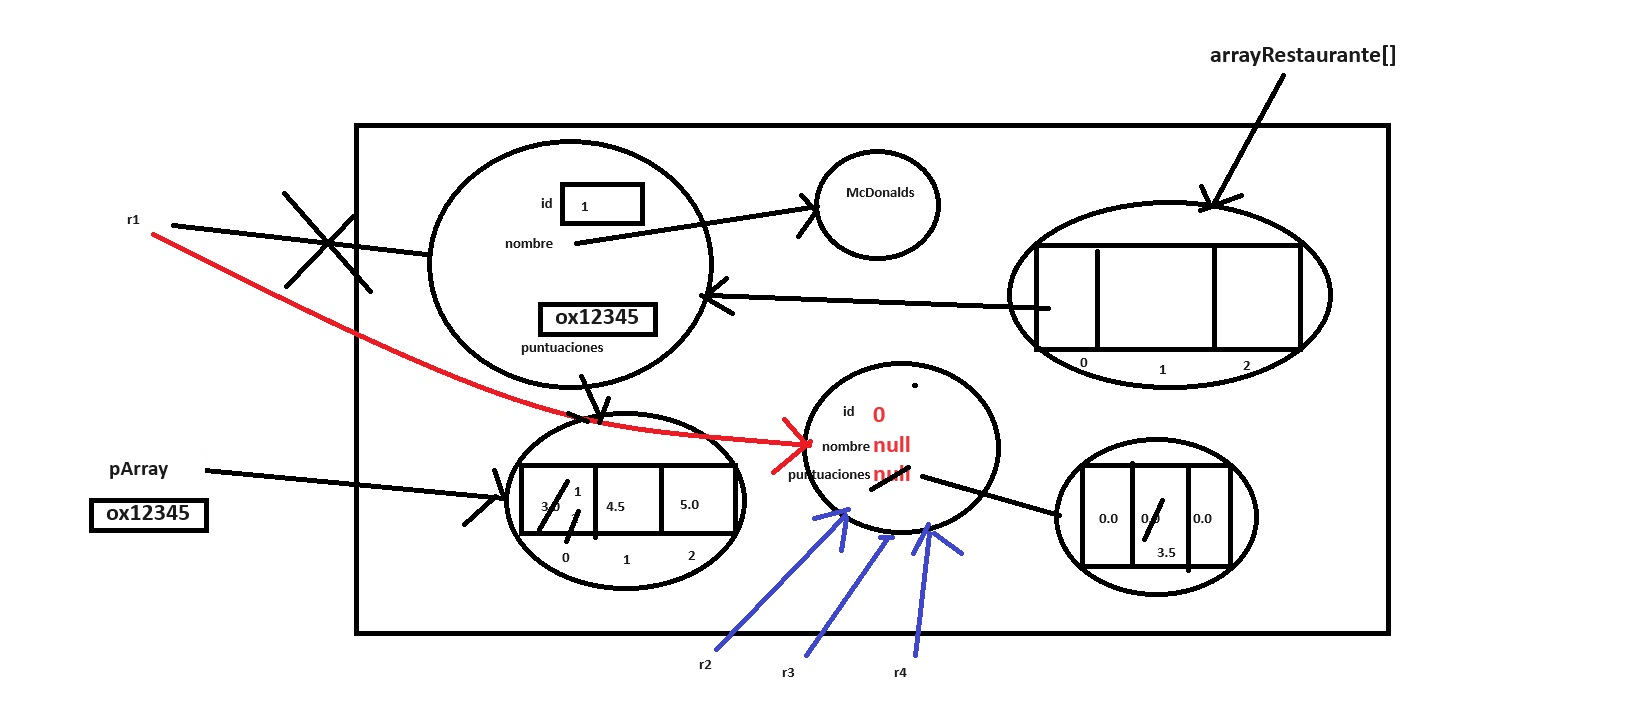
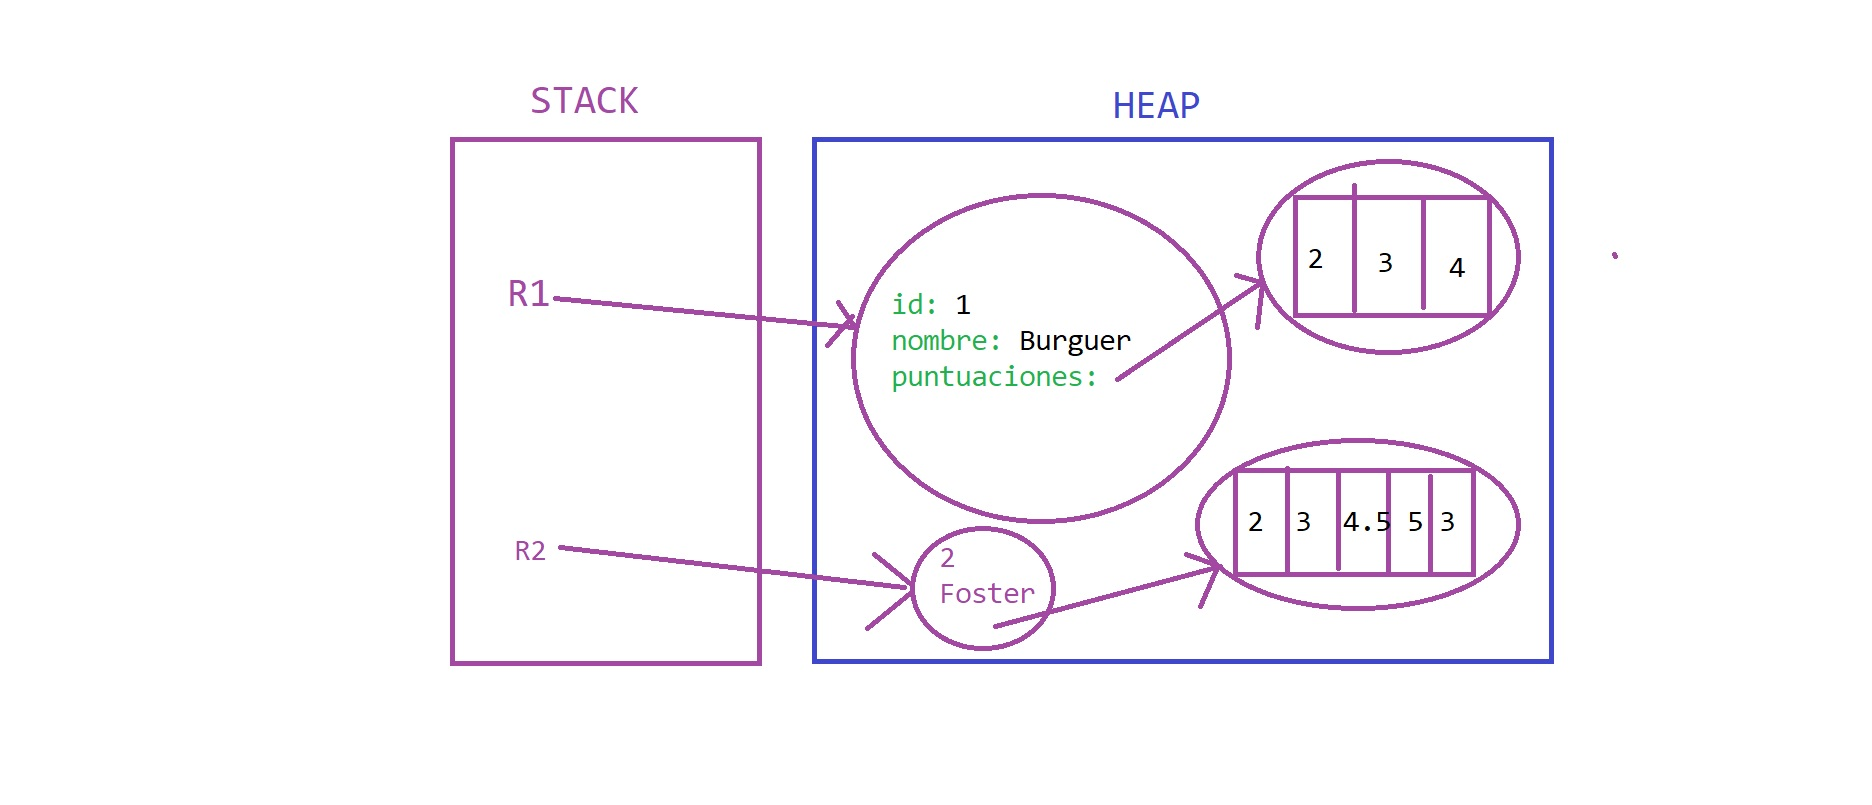
mejoras de ejemplos

diff --git a/03_Arrays/src/array/_01_Arrays.java b/03_Arrays/src/array/_01_Arrays.java
@@ -7,7 +7,7 @@ public class _01_Arrays {
 		//almacenar una colección de datos de un mismo tipo.
 
 		// Podemos entender un array como tener muchas variables
-		//de un mismo declaradas en una estructura.
+		//de un mismo tipo declaradas en una estructura.
 		
 		//Ejemplo, si queremos almacenar 5 números en memoria
 		//necesitariamos 5 variables de tipo int
@@ -24,8 +24,11 @@ public class _01_Arrays {
 		System.out.println(n4);
 		System.out.println(n5);
 		
-		// Los arrays nos permiten almacenar un número de variables
-		//dentro de una misma "variable"
+		//¿Te imaginas que te dijera que tienes que almacenar 500 números
+		//metidos por el usuario? Tendrías que crearte 500 variables a mano...
+		
+		// Los arrays nos permiten almacenar muchas variables
+		//dentro de una misma estructura
 		
 		//Podemos declarar un array de la siguiente manera
 		int[] arrayNumeros = new int[5];
@@ -57,24 +60,23 @@ public class _01_Arrays {
 		
 		//Para acceder a una posición del array se hace de la misma manera
 		System.out.println(arrayNumeros[0]);//Esta seria la primera posición del array
-		System.out.println(arrayNumeros[1]);//Esta sería la segunda posición del array
-		System.out.println(arrayNumeros[2]);//Esta sería la tercera posición del array
-		System.out.println(arrayNumeros[3]);//Esta sería la cuarta posición del array
-		System.out.println(arrayNumeros[4]);//Esta sería la quinta posición del array
-											//o la última posición del array
+		System.out.println(arrayNumeros[1]);
+		System.out.println(arrayNumeros[2]);
+		System.out.println(arrayNumeros[3]);
+		System.out.println(arrayNumeros[4]);//Esta sería la última posición del array
 		
-		//Ojo, si accedéis o modificais una posición que no existe, da error
+		//El orden de las posiciones de los elementos en un array se conoce 
+		//como índice o index.
+		
+		//Ojo, si accedéis o modificais una posición o indice que no existe, da error
 		//en tiempo de ejecución, concretamente ArrayIndexOutOfBoundsException
 		//arrayNumeros[5] = 6;//No da error en tiempo de compilación, pero si en ejecución
 		
 		//Una vez creado el array, NO se puede modificar el tamaño. Es por esto que este
-		//tipo de array en java se conoce como "array estatico"
+		//tipo de array en java se conoce como "array estático"
 		
-		//Podemos conocer la longitud de un array gracias a la propiedad "length"
+		//Podemos conocer el tamaño de un array gracias a la propiedad "length"
 		System.out.println("El tamaño del array es: " + arrayNumeros.length);//5
-		
-		//Gracias a que un array es una colección de variables se puede recorrer
-		//con bucles
 		
 		//Ejemplo, guardar los primeros 1000 numeros en variables
 		int[] arrayMilNumeros = new int[1000];
@@ -82,7 +84,9 @@ public class _01_Arrays {
 		//arrayMilNumeros[1] = 2;
 		//arrayMilNumeros[2] = 3;
 		//Esto es inviable....
-		//Hay que usar bucles
+		
+		//Gracias a que un array es una colección de variables se puede recorrer
+		//con bucles
 		for(int i = 0; i < 1000; i++) {//i <= 999;
 			arrayMilNumeros[i] = i + 1;
 		}
@@ -105,11 +109,10 @@ public class _01_Arrays {
 			System.out.println(arrayMilNumeros[i]);
 		}
 		/*
-		a) te imprime los numeros del 1 al 1000
-		b) te imprime los numeros del 0 al 1000
-		c) te imprime los numeros del 0 al 999
-		d) error en tiempo de complacion
-		e) error en tiempo de ejecución
+		a) Te imprime los numeros del 1 al 1000
+		b) Te imprime los numeros del 0 al 1000
+		c) Te imprime los numeros del 0 al 999
+		d) Error en tiempo de ejecución
 		*/
 		
 		//Normalmente para recorrer un array se usa como condición de parada
@@ -129,7 +132,8 @@ public class _01_Arrays {
 		//Podemos declarar arrays e inicializarlos al mismo tiempo
 		char[] arrayCaracteres = {'F','e','l','i','x'};
 		//El tamaño de este array es 5
-		//El numero de posiciones de este array es 5
+		//El numero de posiciones de este array van de la 0 a la 4
+		//o dicho de otra manera, el indice va del 0 al 4
 		//La primera posición del array tiene de valor: F
 		//La última posición del array tiene de valor: x
 		//La posición 5 del array tiene de valor: NO EXISTE
@@ -138,15 +142,12 @@ public class _01_Arrays {
 		
 		int[] arrayNumerico2 = {2,4,5,6,7,8};
 		//El tamaño de este array es 6
-		//El numero de posiciones de este array es 6
+		//El numero de posiciones de este array van de la 0 a la 5
 		//La primera posición del array tiene de valor: 2
 		//La última posición del array tiene de valor: 8
 		//La posición 5 del array tiene de valor: 8
 		//La posición 6 del array tiene de valor: NO EXISTE
 		//La posición 4 del array tiene de valor: 7
-		//La posición tercera del array tiene de valor: 5
-		//La posición quinta del array tiene de valor: 7
-		//La posición septima del array tiene de valor: NO EXISTE
 	}
 
 }

diff --git a/05_Clases/src/_05_arrays/MainObjetosArrays02.java b/05_Clases/src/_05_arrays/MainObjetosArrays02.java
@@ -1,0 +1,52 @@
+package _05_arrays;
+
+public class MainObjetosArrays02 {
+
+	public static void main(String[] args) {		
+		Restaurante r1 = new Restaurante();
+		r1.id = 1;
+		r1.nombre = "McDonalds";
+		
+		double[] pArray = new double[3];
+		pArray[0] = 3.0;
+		pArray[1] = 4.5;
+		pArray[2] = 5.0;
+		
+		r1.puntuaciones = pArray;
+		pArray[0] = 2.0;
+		System.out.println(r1.puntuaciones[0]);
+		
+		Restaurante[] arrayRestaurante;
+		arrayRestaurante = new Restaurante[3];
+		
+		arrayRestaurante[0] = r1;
+		arrayRestaurante[0].puntuaciones[0] = 1.0;
+		System.out.println(pArray[0]);
+		
+		r1 = new Restaurante();
+		r1.puntuaciones = new double[3];
+		System.out.println(r1.puntuaciones[0]);
+		
+		r1.puntuaciones[1] = 3.5;
+		System.out.println(arrayRestaurante[0].puntuaciones[1]);
+		
+		Restaurante r2 = r1;
+		Restaurante r3 = r2;
+		Restaurante r4 = r1;
+		
+		r2.puntuaciones[2] = 5.0;
+		System.out.println(r2.puntuaciones[2]);
+		System.out.println(r3.puntuaciones[2]);
+		System.out.println(r4.puntuaciones[2]);
+		
+		System.out.println("------------------");
+		mostrarPuntuacion(r2.puntuaciones[2]);
+		mostrarPuntuacion(r3.puntuaciones[2]);
+		mostrarPuntuacion(r4.puntuaciones[2]);
+	}
+	
+	public static void mostrarPuntuacion(double p) {
+		System.out.println(p);
+	}
+
+}

diff --git a/05_Clases/src/_02_constructores/Persona.java b/05_Clases/src/_02_constructores/Persona.java
@@ -3,9 +3,12 @@ package _02_constructores;
 //Siempre que queramos construir un objeto, necesitamos de la ayuda de lo
 //que se conoce como "Constructor"
 
-//Un Constructor en POO es un método especial el cual se usa pra la creación
+//Un Constructor en POO es un método especial el cual se usa para la creación
 //de los objetos. Es imperativo usar siempre algún constructor para crear un
 //objeto.
+
+//Los constructores sirven principalmente para inicializar valores de 
+//atributos de objetos.
 
 // En java se permite crear mas de un constructor. El constructor de un objeto
 // en java, sigue la misma regla que los métodos, es decir, la firma de un 
@@ -38,7 +41,7 @@ public class Persona {
 		//Normalmente podemos alterar el comportamiento de un constructor
 		//cuando queremos que todos los valores de los objetos empiecen
 		//igual
-		edad = 18;//De esta manera TODOS los objetos tendrán la edad
+		//edad = 18;//De esta manera TODOS los objetos tendrán la edad
 				//d2 18 cuando invoquemos este constructor
 		
 		this.edad = 18;

diff --git a/05_Clases/src/_05_arrays/MainObjetosArrays01.java b/05_Clases/src/_05_arrays/MainObjetosArrays01.java
@@ -1,0 +1,31 @@
+package _05_arrays;
+
+public class MainObjetosArrays01 {
+	public static void main(String[] args) {
+		Restaurante r1 = new Restaurante();
+		r1.id = 1;
+		r1.nombre = "Burguer";
+		r1.puntuaciones = new double[3];
+		
+		r1.puntuaciones[0] = 2;
+		r1.puntuaciones[1] = 3;
+		r1.puntuaciones[2] = 4;
+		
+		System.out.println(r1.nombre);
+		for(double puntuacion : r1.puntuaciones) {
+			System.out.println("El restaurante " + r1.nombre + " tiene "
+					+ "como puntuacion " + puntuacion);
+		}
+		
+		//Como tenemos sobre escrito el metodo toString()
+		System.out.println(r1);
+		
+		System.out.println("La media del restaurante es: " + r1.calcularMedia());
+		
+		//Otra manera sería
+		double[] puntuacionesFoster = {2,3,4.5,5.0,3.0};
+		Restaurante r2 = new Restaurante(2, "Foster", puntuacionesFoster);
+		System.out.println("La media del foster es: " + r2.calcularMedia());
+		//Ver dibujo _05_arrays_01.jpg
+	}
+}

diff --git a/05_Clases/src/_05_arrays/Restaurante.java b/05_Clases/src/_05_arrays/Restaurante.java
@@ -3,9 +3,9 @@ package _05_arrays;
 import java.util.Arrays;
 
 public class Restaurante {
-	int id;//0
-	String nombre;//null
-	double[] puntuaciones;//null
+	int id;// Por defecto 0
+	String nombre;//Por defecto null
+	double[] puntuaciones;//Por defecto null
 	
 	public Restaurante() {
 		super();
@@ -21,6 +21,15 @@ public class Restaurante {
 	@Override
 	public String toString() {
 		return "Restaurante [id=" + id + ", nombre=" + nombre + ", puntuaciones=" + Arrays.toString(puntuaciones) + "]";
+	}
+	
+	public double calcularMedia() {
+		double suma = 0;
+		for(double puntuacion : puntuaciones) {
+			suma += puntuacion;
+		}
+		double media = suma / puntuaciones.length;
+		return media;
 	}
 	
 	

diff --git a/03_Arrays/src/array/_04_ForEach.java b/03_Arrays/src/array/_04_ForEach.java
@@ -23,14 +23,16 @@ public class _04_ForEach {
 		//Esta manera tiene ventajas e incovenientes.
 		//VENTAJAS
 		//1- Es muy sencillo de recorrer completamente un array por todas sus posiciones
+		//o indices
 		//2- Es más rápido de escribir
 		
 		//INCONVENIENTES
-		//1- No tenemos acceso al indice
+		//1- No tenemos acceso al indice o a una posición concreta
 		//2- No podemos alterar la manera de recorrere el array. Por ejemplo, 
 		//no podemos acceder solamente a los pares
 		
 		//Podemos utilizar variables auxiliares para controlar el indice
+		//de manera artificial
 		int posicion = 1;
 		for(String s : blackWidow) {
 			System.out.println(posicion + "-" + s);

diff --git a/05_Clases/src/_01_basico/_01_MainBasico.java b/05_Clases/src/_01_basico/_01_MainBasico.java
@@ -5,6 +5,7 @@ public class _01_MainBasico {
 	public static void main(String[] args) {
 		// A partir de una clase podremos crear los objetos.
 		// Un objeto es una instancia de una clase.
+		
 		// Los objetos se crean en la JVM en un espacio de memoria
 		// llamado 'heap'
 		

diff --git a/05_Clases/src/_01_basico/Persona.java b/05_Clases/src/_01_basico/Persona.java
@@ -20,7 +20,7 @@ public class Persona {
 	//El ciclo de vida de los atributos es igual al ciclo de vida de un 
 	//objeto
 	
-	//los atributos siguen la convención lowerCamelCase
+	//Los atributos siguen la convención lowerCamelCase
 	String nombre;
 	int edad;
 	double peso;

diff --git a/05_Clases/src/_01_basico/_02_MainReferencias.java b/05_Clases/src/_01_basico/_02_MainReferencias.java
@@ -34,6 +34,7 @@ public class _02_MainReferencias {
 		System.out.println(p2.edad);
 		System.out.println(p3.edad);
 		//ver dibujo "_01_basico_04_dos_referencias_primitivos.jpg"
+		p3 = p2;
 		
 		Persona p4 = new Persona();
 		p4.edad = 50;

diff --git a/03_Arrays/src/array/_02_UsosArrays.java b/03_Arrays/src/array/_02_UsosArrays.java
@@ -1,5 +1,6 @@
 package array;
 
+//Aquí vamos a ver algunos usos que podemos darle a los arrays
 public class _02_UsosArrays {
 	public static void main(String[] args) {
 		//Queremos guardar los siguientes datos de una persona
